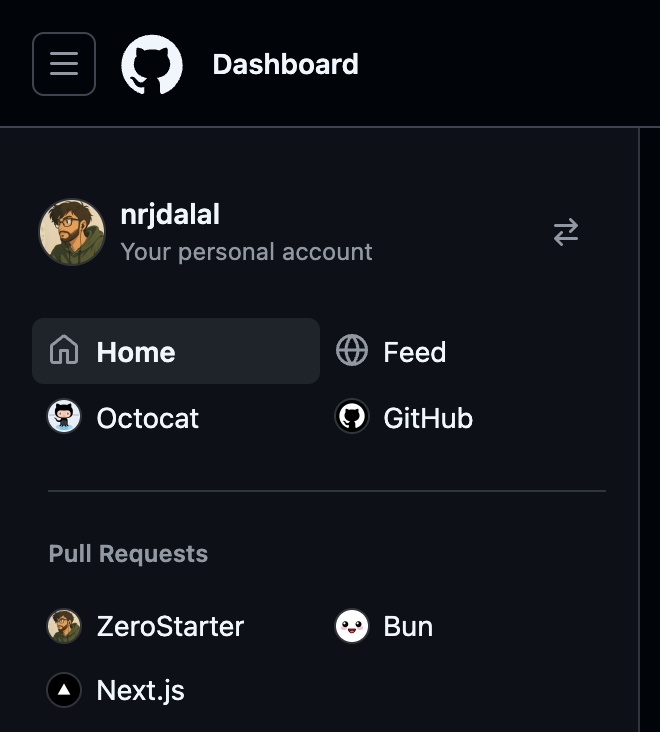
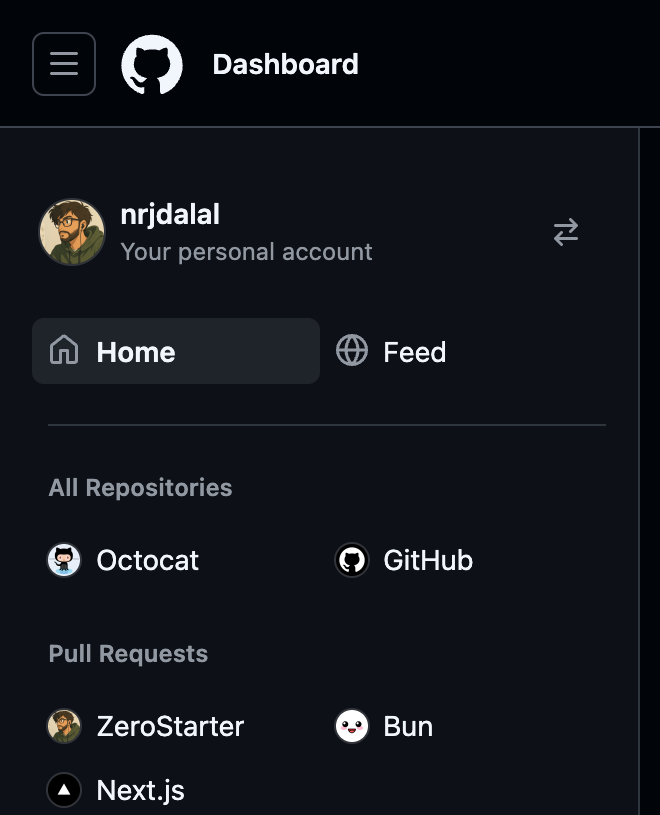
feat: links move to an All Repositories section; a repo's pull request lists open sorted by last update

diff --git a/github.js b/github.js
@@ -1,5 +1,29 @@
-// Puts Home and Feed side by side, links the account avatar to its profile and adds a Pull Requests section above the dashboard's "Top repositories", linking each repo bookmarked in the extension popup to its pull requests in static markup with avatars kept in localStorage (the links under Home and Feed show their user's or org's avatar too), so it renders at first paint, and swaps a repo's "All pull requests" heading for Pull requests, Authored by me and Merged by me icon tabs, adding Merged by me to its sidebar too.
+// Puts Home and Feed side by side, links the account avatar to its profile and adds All Repositories (the links set in the extension popup, each with its user's or org's avatar) and Pull Requests (each bookmarked repo's pull requests) above the dashboard's "Top repositories", in static markup with avatars kept in localStorage, so they render at first paint, swaps a repo's "All pull requests" heading for Pull requests, Authored by me and Merged by me icon tabs, adding Merged by me to its sidebar too, and opens a repo's pull request lists sorted by last update unless the search names a sort.
 ;(() => {
+  const sortedUrl = (href) => {
+    const url = new URL(href, location.href)
+    const [, owner, repo, page, login, extra] = url.pathname.split("/")
+    if (url.origin !== location.origin || !repo || page !== "pulls" || extra !== undefined || (login && url.searchParams.has("q"))) return null
+    const q = url.searchParams.get("q") ?? (login ? `is:pr state:open author:${login}` : "is:pr is:open")
+    if (/(^|\s)sort:/.test(q)) return null
+    url.pathname = `/${owner}/${repo}/pulls`
+    url.searchParams.set("q", `${q} sort:updated-desc`)
+    return url.href
+  }
+  const start = sortedUrl(location.href)
+  if (start) return location.replace(start)
+  addEventListener(
+    "click",
+    (event) => {
+      const a = event.target.closest?.("a[href]")
+      const url = a && event.button === 0 && !event.metaKey && !event.ctrlKey && !event.shiftKey && !event.altKey && a.target !== "_blank" && sortedUrl(a.href)
+      if (!url) return
+      event.preventDefault()
+      event.stopImmediatePropagation()
+      location.assign(url)
+    },
+    true,
+  )
   const ICONS = {
     "git-merge": '<path d="M5.45 5.154A4.25 4.25 0 0 0 9.25 7.5h1.378a2.251 2.251 0 1 1 0 1.5H9.25A5.734 5.734 0 0 1 5 7.123v3.505a2.25 2.25 0 1 1-1.5 0V5.372a2.25 2.25 0 1 1 1.95-.218ZM4.25 13.5a.75.75 0 1 0 0-1.5.75.75 0 0 0 0 1.5Zm8.5-4.5a.75.75 0 1 0 0-1.5.75.75 0 0 0 0 1.5ZM5 3.25a.75.75 0 1 0 0 .005V3.25Z"/>',
     inbox: '<path d="M2.8 2.06A1.75 1.75 0 0 1 4.41 1h7.18c.7 0 1.333.417 1.61 1.06l2.74 6.395c.04.093.06.194.06.295v4.5A1.75 1.75 0 0 1 14.25 15H1.75A1.75 1.75 0 0 1 0 13.25v-4.5c0-.101.02-.202.06-.295Zm1.61.44a.25.25 0 0 0-.23.152L1.887 8H4.75a.75.75 0 0 1 .6.3L6.625 10h2.75l1.275-1.7a.75.75 0 0 1 .6-.3h2.863L11.82 2.652a.25.25 0 0 0-.23-.152Zm10.09 7h-2.875l-1.275 1.7a.75.75 0 0 1-.6.3h-3.5a.75.75 0 0 1-.6-.3L4.375 9.5H1.5v3.75c0 .138.112.25.25.25h12.5a.25.25 0 0 0 .25-.25Z"/>',
@@ -20,61 +44,37 @@
   }
   const CONFIG = "github-enhanced-config"
   let config = JSON.parse(localStorage.getItem(CONFIG) ?? "{}")
-  const reserveNav = () => {
-    const rows = Math.ceil(Object.keys(config.links ?? {}).length / 2)
-    if (rows) document.documentElement.style.setProperty("--ujc-nav-rows", rows)
-    else document.documentElement.style.removeProperty("--ujc-nav-rows")
-  }
-  reserveNav()
   const hydrated = (el) => Object.keys(el).some((key) => key.startsWith("__reactFiber$"))
 
-  const bookmarks = () => {
+  const sections = () => {
     for (const partial of document.querySelectorAll("react-partial[partial-name='dashboard-repositories']")) {
       if (partial.previousElementSibling?.hasAttribute("data-ujc-sections")) continue
-      const box = document.createElement("div")
-      box.setAttribute("data-ujc-sections", "")
-      const head = document.createElement("h2")
-      head.textContent = "Pull Requests"
-      const list = document.createElement("ul")
-      for (const [repo, name] of Object.entries(config.bookmarks ?? {})) {
-        const li = document.createElement("li")
-        const a = document.createElement("a")
-        a.href = `/${repo}/pulls`
-        const img = avatar(repo.split("/")[0])
-        const label = document.createElement("span")
-        label.textContent = name
-        a.append(img, label)
-        li.append(a)
-        list.append(li)
+      const all = Object.entries(config.links ?? {}).map(([href, label]) => [href, label, linkOwner(href)])
+      const pulls = Object.entries(config.bookmarks ?? {}).map(([repo, label]) => [`/${repo}/pulls`, label, repo.split("/")[0]])
+      for (const [title, rows] of [["All Repositories", all], ["Pull Requests", pulls]]) {
+        if (!rows.length) continue
+        const box = document.createElement("div")
+        box.setAttribute("data-ujc-sections", "")
+        const head = document.createElement("h2")
+        head.textContent = title
+        const list = document.createElement("ul")
+        for (const [href, text, owner] of rows) {
+          const li = document.createElement("li")
+          const a = document.createElement("a")
+          a.href = href
+          const label = document.createElement("span")
+          label.textContent = text
+          a.append(avatar(owner), label)
+          li.append(a)
+          list.append(li)
+        }
+        box.append(head, list)
+        partial.before(box)
       }
-      box.append(head, list)
-      partial.before(box)
     }
   }
 
-  const pairNav = () => {
-    const home = [...document.querySelectorAll("li > a[href='/']")].find((a) => a.textContent.trim() === "Home")
-    const list = home?.closest("ul")
-    if (!list || ![...list.querySelectorAll("a")].some((a) => a.textContent.trim() === "Feed")) return
-    const template = [...list.children].find((li) => !li.hasAttribute("data-ujc-extra") && !li.classList.contains("ActionListItem--navActive"))
-    if (!template?.querySelector(".ActionListItem-label")?.textContent.trim() || list.querySelector("[data-ujc-extra]")) return
-    for (const [href, label] of Object.entries(config.links ?? {})) {
-      const li = template.cloneNode(true)
-      li.setAttribute("data-ujc-extra", "")
-      li.removeAttribute("data-item-id")
-      li.removeAttribute("data-analytics-event")
-      li.removeAttribute("data-targets")
-      const a = li.querySelector("a")
-      a.removeAttribute("id")
-      a.removeAttribute("aria-current")
-      a.setAttribute("href", href)
-      li.querySelector(".ActionListItem-label").textContent = label
-      li.querySelector("svg")?.replaceWith(avatar(linkOwner(href)))
-      list.append(li)
-    }
-  }
-
-  const terms = (q) => (q ?? "").trim().split(/\s+/).filter(Boolean).sort().join(" ")
+  const terms = (q) => (q ?? "").trim().split(/\s+/).filter((term) => term && !term.startsWith("sort:")).sort().join(" ")
   const DEFAULT_PR_QUERIES = ["", terms("is:pr state:open"), terms("is:pr is:open")]
 
   const ctx = document.createElement("canvas").getContext("2d")
@@ -94,7 +94,7 @@
   }
 
   let merged
-  const prSidebar = (authoredHref, [label, icon, href, active]) => {
+  const prSidebar = (authoredHref, authoredActive, [label, icon, href, active]) => {
     const authored = document.querySelector(`aside a[href='${authoredHref}']`)?.closest("li")
     if (!authored) return
     if (!merged) {
@@ -124,8 +124,15 @@
       document.documentElement.style.setProperty("--ujc-merged-row", `${authored.offsetHeight}px`)
     }
     merged.querySelector("a").setAttribute("aria-current", active ? "page" : "false")
-    if (active) merged.setAttribute("data-active", "true")
-    else merged.removeAttribute("data-active")
+    for (const [li, on] of [[authored, authoredActive], [merged, active]]) {
+      if (on) {
+        li.setAttribute("data-active", "true")
+        li.setAttribute("data-ujc-active", "")
+      } else if (li.hasAttribute("data-ujc-active")) {
+        li.removeAttribute("data-active")
+        li.removeAttribute("data-ujc-active")
+      }
+    }
   }
 
   let nav
@@ -141,7 +148,7 @@
       ["Authored by me", "smiley", `${pulls}/${login}`, rest === login || q === terms(`is:pr state:open author:${login}`)],
       ["Merged by me", "git-merge", `${pulls}?q=${encodeURIComponent(`is:pr state:merged author:${login}`)}`, !rest && q === terms(`is:pr state:merged author:${login}`)],
     ]
-    prSidebar(`${pulls}/${login}`, tabs[2])
+    prSidebar(`${pulls}/${login}`, tabs[1][3], tabs[2])
     if (!nav) {
       nav = document.createElement("nav")
       nav.setAttribute("data-ujc-pr-tabs", "")
@@ -184,9 +191,8 @@
 
   const apply = () => {
     if (location.pathname === "/") {
-      pairNav()
       linkAvatar()
-      bookmarks()
+      sections()
     }
     pending = false
     prTabs()
@@ -231,8 +237,7 @@
   if (location.pathname === "/") addEventListener("load", () => requestIdleCallback(cacheAvatars))
   document.addEventListener("github-enhanced:config", () => {
     config = JSON.parse(localStorage.getItem(CONFIG) ?? "{}")
-    reserveNav()
-    for (const node of document.querySelectorAll("[data-ujc-sections], [data-ujc-extra]")) node.remove()
+    for (const node of document.querySelectorAll("[data-ujc-sections]")) node.remove()
     schedule()
   })
   apply()

diff --git a/github.css b/github.css
@@ -3,6 +3,10 @@
   margin-bottom: -9px;
 }
 
+[data-ujc-sections]:has(+ [data-ujc-sections]) {
+  margin-bottom: 0;
+}
+
 [data-ujc-sections] h2 {
   margin: 0;
   padding: 6px 16px;
@@ -54,8 +58,7 @@
   text-decoration: none;
 }
 
-[data-ujc-sections] img,
-[data-ujc-extra] img {
+[data-ujc-sections] img {
   flex-shrink: 0;
   width: 16px;
   height: 16px;
@@ -85,12 +88,6 @@ ul.ActionListWrap:has(> li[data-item-id="home"]):has(> li[data-item-id="feed"]) 
 
 ul.ActionListWrap:has(> li[data-item-id="home"]):has(> li[data-item-id="feed"]) > ::after {
   display: none !important;
-}
-
-html[style*="--ujc-nav-rows"] ul.ActionListWrap:has(> li[data-item-id="home"]):has(> li[data-item-id="feed"]):not(:has(> [data-ujc-extra]))::after {
-  content: "";
-  grid-column: 1 / -1;
-  height: calc(33px * var(--ujc-nav-rows));
 }
 
 [data-ujc-avatar] {
@@ -245,14 +242,14 @@ html[data-ujc-pending] aside li:has(> a[href*="/pulls/"]):not(:has(> a[href*="/p
   margin-bottom: var(--ujc-merged-row);
 }
 
-aside ul:has(> li[data-ujc-merged][data-active]) > li[data-active]:not([data-ujc-merged]) {
+aside ul:has(> li[data-ujc-active]) > li[data-active]:not([data-ujc-active]) {
   background: transparent;
 }
 
-aside ul:has(> li[data-ujc-merged][data-active]) > li[data-active]:not([data-ujc-merged])::after {
+aside ul:has(> li[data-ujc-active]) > li[data-active]:not([data-ujc-active])::after {
   display: none;
 }
 
-aside ul:has(> li[data-ujc-merged][data-active]) > li[data-active]:not([data-ujc-merged]) [class*="ItemLabel"] {
+aside ul:has(> li[data-ujc-active]) > li[data-active]:not([data-ujc-active]) [class*="ItemLabel"] {
   font-weight: var(--base-text-weight-normal);
 }

diff --git a/settings.html b/settings.html
@@ -48,7 +48,7 @@
   </head>
   <body>
     <h1>GitHub Enhanced</h1>
-    <small>JSON with <code>//</code> comments. <code>bookmarks</code> maps <code>owner/repo</code> to a name under Pull Requests; <code>links</code> maps a URL to a label, shown with its user's or org's avatar.</small>
+    <small>JSON with <code>//</code> comments. <code>bookmarks</code> maps <code>owner/repo</code> to a name under Pull Requests; <code>links</code> maps a URL to a label under All Repositories, shown with its user's or org's avatar.</small>
     <textarea id="config" spellcheck="false" aria-label="Config (JSON)"></textarea>
     <button id="save">Save</button><output id="status"></output>
     <script src="settings.js"></script>

diff --git a/README.md b/README.md
@@ -6,9 +6,9 @@ Flash-free tweaks for github.com, as a browser extension. Every tweak lands as t
 
 ### Dashboard sidebar
 
-Home and Feed side by side, your own links under them, a Pull Requests section above "Top repositories" linking to your chosen repos' pull requests, and your avatar links to your profile.
+Home and Feed side by side, then two sections above "Top repositories": All Repositories, your own links with their user's or org's avatar, and Pull Requests, linking to your chosen repos' pull requests. Your avatar links to your profile.
 
-<img src="assets/dashboard.png" alt="Dashboard sidebar with Home and Feed side by side, two custom links with their avatars and three repos under Pull Requests" width="330">
+<img src="assets/dashboard.png" alt="Dashboard sidebar with Home and Feed side by side, two links under All Repositories and three repos under Pull Requests" width="330">
 
 ### Navbar
 
@@ -24,7 +24,7 @@ Code, Actions, Issues and Pull requests stay in the bar; the rest move under Mor
 
 ### Pull requests page
 
-The "All pull requests" heading becomes three icon tabs with GitHub-style tooltips: Pull requests, Authored by me (your open pull requests) and Merged by me (your pull requests that were merged). Merged by me also joins the page's sidebar under Authored by me. They read your username from the page, so they show only when you are signed in.
+The "All pull requests" heading becomes three icon tabs with GitHub-style tooltips: Pull requests, Authored by me (your open pull requests) and Merged by me (your pull requests that were merged). Merged by me also joins the page's sidebar under Authored by me. They read your username from the page, so they show only when you are signed in. A repo's pull request lists open sorted by last update, so a pull request with a new comment or push comes first; a search that names its own `sort:` keeps it.
 
 <img src="assets/pull-requests.png" alt="Pull requests page with three icon tabs, the Merged by me tooltip, and Merged by me in the sidebar" width="660">
 
@@ -54,7 +54,7 @@ Click the extension's toolbar button, or its **Options**, to edit its config, on
 ```
 
 - `bookmarks` maps `owner/repo` to the name shown under Pull Requests, in order; each links to the repo's pull requests.
-- `links` maps a URL to a row under Home and Feed with its label, shown with the avatar of the user or org the URL points to (`github.com/<user>` or `github.com/orgs/<org>`).
+- `links` maps a URL to its label under All Repositories, shown with the avatar of the user or org the URL points to (`github.com/<user>` or `github.com/orgs/<org>`).
 
 The config syncs through your browser profile. Avatars are kept in github.com's localStorage and refreshed after each dashboard load, so from the second visit on they paint with the page.
 
